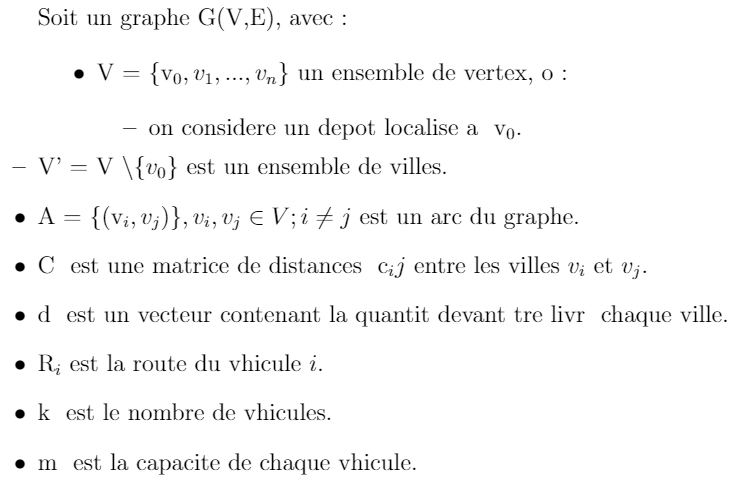
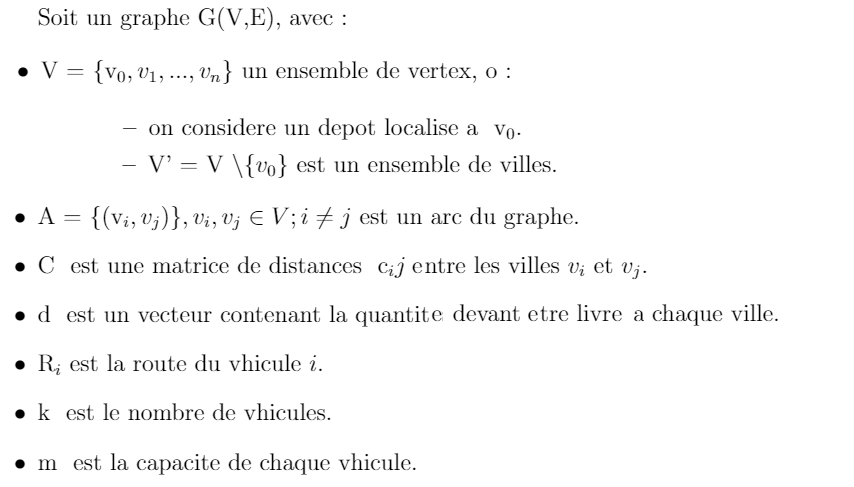
Final version of the stats program + .csv files used for stats
- fix type on math.png

diff --git a/Stats/stats.py b/Stats/stats.py
@@ -6,7 +6,7 @@ import matplotlib.pyplot as plt
 from matplotlib import pylab
 from scipy import stats
 
-def calculateLinearRegression(xvalues, yvalues, windowTitle):
+def calculateLinearRegression(xvalues, yvalues, xaxistitle, yaxistitle, windowTitle):
     xvalues = np.array(xvalues)
 
     slope, intercept, r_value, p_value, std_err = stats.linregress(xvalues, yvalues)
@@ -15,7 +15,11 @@ def calculateLinearRegression(xvalues, yvalues, windowTitle):
     print('Y(x) = {0}x + {1}'.format(slope, intercept))
 
     plt.plot(xvalues, yvalues, 'o', xvalues, line)
-    pylab.title(windowTitle)
+    plt.xlabel(xaxistitle)
+    plt.ylabel(yaxistitle)
+    #pylab.title(windowTitle)
+
+    return slope, intercept
 
 
 def retrieveStatsFromFile(fileName):
@@ -31,10 +35,44 @@ def retrieveStatsFromFile(fileName):
     return data
 
 def main():
-    fileName = "20190704-085418.csv"
-    data = retrieveStatsFromFile(fileName)
+    RESULTS_DIRECTORY = 'Results/'
+    
+    data = retrieveStatsFromFile(RESULTS_DIRECTORY + 'cities.csv')
+    plt.subplot(321)
+    calculateLinearRegression([int(x[4]) for x in data], [float(x[0]) for x in data], 'Nb of cities', 'time (s)', 'Nb of cities / Time (s)')
 
-    calculateLinearRegression([int(x[3]) for x in data],[float(x[0]) for x in data], '')
+    data = retrieveStatsFromFile(RESULTS_DIRECTORY + 'trucks.csv')
+    plt.subplot(322)
+    calculateLinearRegression([int(x[5]) for x in data], [float(x[0]) for x in data], 'Nb of trucks', 'time (s)', 'Nb of trucks / Time (s)')
+
+    data = retrieveStatsFromFile(RESULTS_DIRECTORY + 'temperature.csv')
+    plt.subplot(323)
+    margeOptimum = [float(x[2]) - int(x[3]) for x in data]
+    margeResult = [float(x[2]) - int(x[1]) for x in data]
+    qualityCoef = [margeResult[i] / margeOptimum[i] for i in range(0, len(data))]
+    coefSlope, coefIntercept = calculateLinearRegression([int(x[7]) for x in data], qualityCoef, 'Temperature', 'Quality Coef', 'Temperature / Quality Coef')
+
+    data = retrieveStatsFromFile(RESULTS_DIRECTORY + 'coef.csv')
+    plt.subplot(324)
+    margeOptimum = [float(x[2]) - int(x[3]) for x in data]
+    margeResult = [float(x[2]) - int(x[1]) for x in data]
+    qualityCoef = [margeResult[i] / margeOptimum[i] for i in range(0, len(data))]
+    temperatureSlope, temperatureIntercept = calculateLinearRegression([float(x[8]) for x in data], qualityCoef, 'Temperature Coef', 'Quality Coef', 'Coef / Quality Coef')
+
+    data = retrieveStatsFromFile(RESULTS_DIRECTORY + 'iterations.csv')
+    plt.subplot(325)
+    margeOptimum = [float(x[2]) - int(x[3]) for x in data]
+    margeResult = [float(x[2]) - int(x[1]) for x in data]
+    qualityCoef = [margeResult[i] / margeOptimum[i] for i in range(0, len(data))]
+    calculateLinearRegression([int(x[6]) for x in data], qualityCoef, 'Iterations', 'Quality Coef', 'Iterations / Quality Coef')
+
+    plt.subplot(326)
+    x = np.linspace(-5, 5, 100)
+    y = (temperatureSlope + coefSlope) / 2 * x + (temperatureIntercept + coefSlope) / 2
+    plt.plot(x, y, '-r') 
+
+    plt.subplots_adjust(bottom=8, top=10, left=3, right=5)
+    plt.show()
 
 if __name__ == "__main__":
     main()

diff --git a/Stats/main.py b/Stats/main.py
@@ -15,8 +15,8 @@ MAX_NB_OF_TRUCKS = 5
 MIN_TRUCK_CAPACITY = 1000
 MAX_TRUCK_CAPACITY = 1000
 
-MIN_NB_OF_NODES = 1000
-MAX_NB_OF_NODES = 1000
+MIN_NB_OF_NODES = 100
+MAX_NB_OF_NODES = 100
 
 MIN_NODE_Y = 0
 MAX_NODE_Y = 100
@@ -183,7 +183,7 @@ def generateStatsRandom(min, max, pas, varName, fileName):
     finally:
         file.close()
 
-def generateStatsQuality(valueName, values, inputFile, outputFile):
+def generateStatsQuality(values, valueName, inputFile, outputFile):
     file = open(outputFile, "w+", newline='')
     try:
         writer = csv.writer(file)
@@ -225,9 +225,9 @@ def main():
 
     generateStatsRandom(10, 2000, 100, 'citiesCount', dirName + '/cities.csv')
     generateStatsRandom(6, 30, 1, 'trucksCount', dirName + '/trucks.csv')
-    generateStatsQuality([1, 2, 5, 10], '../input0.txt', dirName + '/temperature.csv')
-    generateStatsQuality([10000, 1000000, 1000000], '../input0.txt', dirName + '/iterations.csv')
-    generateStatsQuality([0.9, 0.95, 0.975, 0.99, 0.999], '../input0.txt', dirName + '/coef.csv')
+    generateStatsQuality([1, 2, 5, 10], 'temperature', '../input0.txt', dirName + '/temperature.csv')
+    generateStatsQuality([10000, 100000, 1000000], 'iterations', '../input0.txt', dirName + '/iterations.csv')
+    generateStatsQuality([0.9, 0.95, 0.975, 0.99, 0.999], 'coef', '../input0.txt', dirName + '/coef.csv')
     
 
 if __name__ == "__main__":
